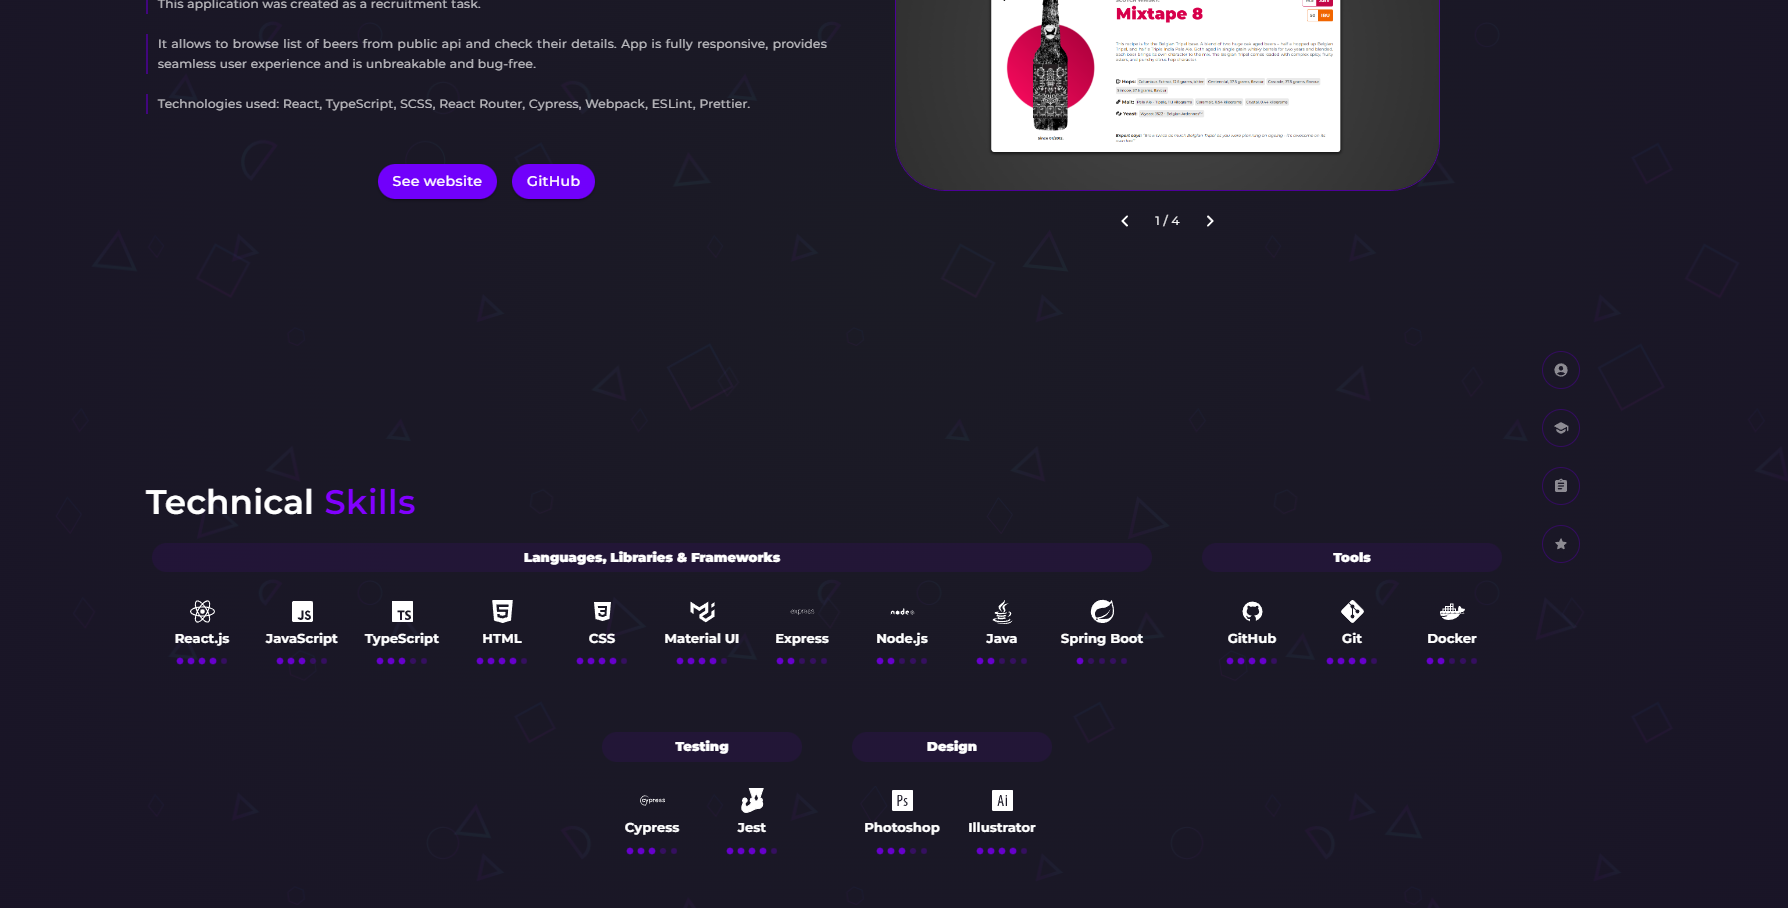
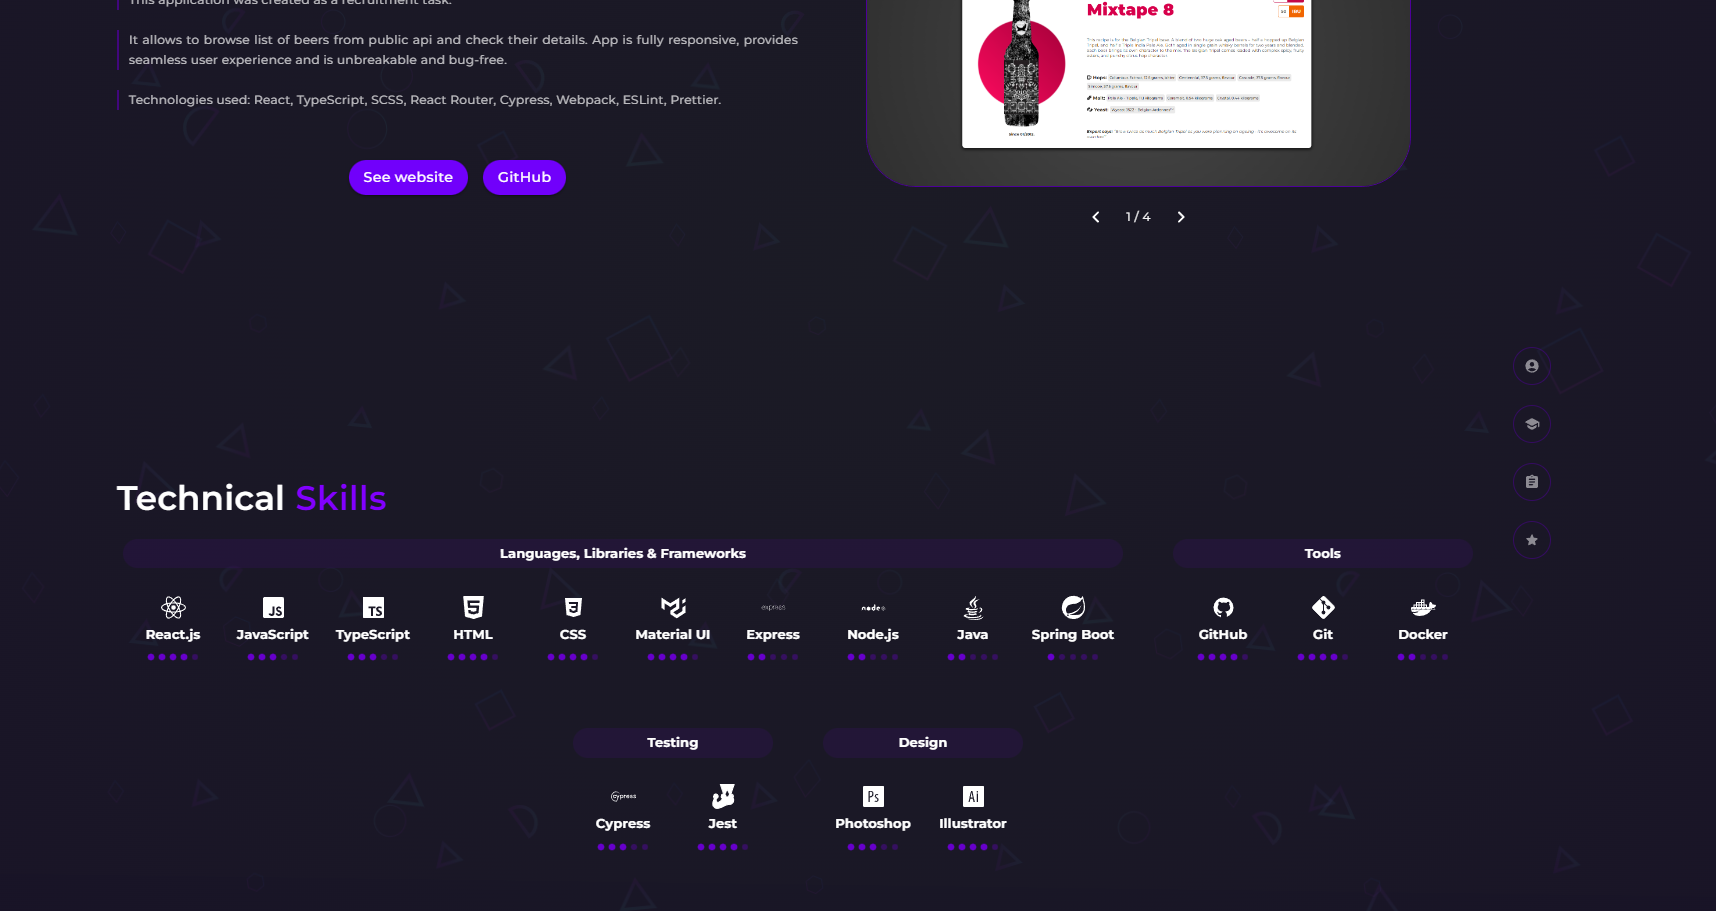
P-39: Replaced SlideInWrapper with useSlideIn hook

diff --git a/src/pages/landing-page/LandingPage.tsx b/src/pages/landing-page/LandingPage.tsx
@@ -9,7 +9,6 @@ import {
 } from '@mui/icons-material';
 import { useAppearance } from '../../shared/hooks/useAppearance';
 import ParallaxBackground from '../../components/animated/parallax-background/ParallaxBackground';
-import SlideInWrapper from '../../components/animated/slide-in/SlideInWrapper';
 import AboutDeveloper from '../../components/content/about-developer/AboutDeveloper';
 import { ME } from '../../shared/constants/Me';
 import SectionHeader from '../../components/navigation/section-header/SectionHeader';
@@ -21,6 +20,7 @@ import SkillsContainer from '../../components/content/skills/skills-container/Sk
 import { PROJECTS } from '../../shared/constants/Projects';
 import Navbar from '../../components/navigation/navbar/Navbar';
 import { Skills } from '../../shared/constants/Skills';
+import { useSlideInProps } from '../../shared/hooks/useSlideInProps';
 
 const MD_BREAKPOINT = 900;
 
@@ -35,6 +35,12 @@ const LandingPage = () => {
   const isExperienceSectionVisible = useAppearance(experienceRef);
   const isAboutMeSectionVisible = useAppearance(aboutMeRef, '200px');
 
+  const skillsSlideInProps = useSlideInProps(isSkillsSectionVisible, 'RIGHT');
+  const projectsSlideInProps = useSlideInProps(isProjectSectionVisible, 'LEFT');
+  const experienceSlideInProps = useSlideInProps(isExperienceSectionVisible, 'RIGHT');
+  const aboutMeSlideInProps = useSlideInProps(isAboutMeSectionVisible, 'RIGHT');
+  const developerSlideInProps = useSlideInProps(isAboutMeSectionVisible, 'LEFT');
+
   return (
     <Grid
       container
@@ -47,50 +53,42 @@ const LandingPage = () => {
       <Grid item xs={12} md={11}>
         <Grid container spacing={5}>
           <Grid item sm={12} md={5} lg={4}>
-            <SlideInWrapper isIn={isAboutMeSectionVisible} direction="LEFT">
-              <AboutDeveloper {...ME} />
-            </SlideInWrapper>
+            <AboutDeveloper {...ME} sx={developerSlideInProps} />
           </Grid>
 
           <Grid item sm={12} md={7} lg={8}>
             <SectionHeader headerText="Hi, I am Hubert!" reference={aboutMeRef} disableTopMargin />
-            <SlideInWrapper isIn={isAboutMeSectionVisible}>
-              <Description
-                sx={{
-                  width: window.innerWidth > MD_BREAKPOINT ? '80%' : '100%',
-                  marginBottom: '50px'
-                }}
-                description={[ME.about]}
-              />
-            </SlideInWrapper>
+            <Description
+              sx={{
+                width: window.innerWidth > MD_BREAKPOINT ? '80%' : '100%',
+                marginBottom: '50px',
+                ...aboutMeSlideInProps
+              }}
+              description={[ME.about]}
+            />
 
             <SectionHeader
               headerText="Education & Experience"
               reference={experienceRef}
               disableTopMargin={window.innerWidth > MD_BREAKPOINT}
             />
-            <SlideInWrapper isIn={isExperienceSectionVisible} direction="RIGHT">
-              <ExperienceList experience={EXPERIENCE} />
-            </SlideInWrapper>
+            <ExperienceList experience={EXPERIENCE} sx={experienceSlideInProps} />
           </Grid>
 
           <Grid item xs={12}>
             <SectionHeader headerText="Featured Projects" reference={projectsRef} />
-            <SlideInWrapper isIn={isProjectSectionVisible} direction="LEFT">
-              <ProjectsList projects={PROJECTS} />
-            </SlideInWrapper>
+            <ProjectsList projects={PROJECTS} sx={projectsSlideInProps} />
           </Grid>
 
           <Grid item xs={12}>
             <SectionHeader headerText="Technical Skills" reference={skillsRef} />
-            <SlideInWrapper isIn={isSkillsSectionVisible} direction="RIGHT">
-              <SkillsContainer
-                programming={Skills.PROGRAMMING_SKILLS}
-                design={Skills.DESIGN_SKILLS}
-                tools={Skills.TOOLS_SKILLS}
-                testing={Skills.TESTING_SKILLS}
-              />
-            </SlideInWrapper>
+            <SkillsContainer
+              programming={Skills.PROGRAMMING_SKILLS}
+              design={Skills.DESIGN_SKILLS}
+              tools={Skills.TOOLS_SKILLS}
+              testing={Skills.TESTING_SKILLS}
+              sx={skillsSlideInProps}
+            />
           </Grid>
         </Grid>
       </Grid>

diff --git a/src/components/content/skills/skills-container/SkillsContainer.tsx b/src/components/content/skills/skills-container/SkillsContainer.tsx
@@ -1,4 +1,4 @@
-import { Box, Typography } from '@mui/material';
+import { Box, SxProps, Typography } from '@mui/material';
 import SkillBadge from '../skill-badge/SkillBadge';
 import './SkillsContainer.scss';
 import { Skill } from 'shared/types/interfaces/Skill';
@@ -9,12 +9,20 @@ interface SkillsContainerProps {
   design: Skill[];
   testing: Skill[];
   wide?: boolean;
+  sx?: SxProps;
 }
 
-const SkillsContainer = ({ programming, tools, design, testing, wide }: SkillsContainerProps) => {
+const SkillsContainer = ({
+  programming,
+  tools,
+  design,
+  testing,
+  wide,
+  sx
+}: SkillsContainerProps) => {
   const buildListOfSkills = (skills: Skill[], header: string) => {
     return (
-      <Box className="skills-category-container">
+      <Box className="skills-category-container" sx={sx}>
         <Typography className="skills-category-header">{header}</Typography>
         <Box className="skills-category-list">
           {skills.map((skill, index) => (

diff --git a/src/components/content/about-developer/AboutDeveloper.tsx b/src/components/content/about-developer/AboutDeveloper.tsx
@@ -1,10 +1,14 @@
-import { Box, Typography } from '@mui/material';
+import { Box, SxProps, Typography } from '@mui/material';
 import './AboutDeveloper.scss';
 import { Developer } from 'shared/types/interfaces/Developer';
 
-const AboutDeveloper = ({ name, role, picture, contacts }: Developer) => {
+interface AboutDeveloperProps extends Developer {
+  sx?: SxProps;
+}
+
+const AboutDeveloper = ({ name, role, picture, contacts, sx }: AboutDeveloperProps) => {
   return (
-    <Box className="about-developer-container">
+    <Box className="about-developer-container" sx={sx}>
       <Box className="developer">
         <img className="picture" src={picture} alt="Picture of this website creator" />
         <Box className="text-container">

diff --git a/src/shared/hooks/useSlideInProps.ts b/src/shared/hooks/useSlideInProps.ts
@@ -1,0 +1,13 @@
+import { SxProps } from '@mui/material';
+
+type SlideDirection = 'LEFT' | 'RIGHT';
+
+export const useSlideInProps = (shouldSlideIn: boolean, direction?: SlideDirection): SxProps => {
+  const slideValue = direction === 'LEFT' ? '-50%' : '50%';
+  return {
+    transform: `translateX(${shouldSlideIn ? 0 : slideValue}) scale(${shouldSlideIn ? 1 : 0.7})`,
+    opacity: shouldSlideIn ? 1 : 0,
+    transition:
+      'transform 0.8s 0.2s cubic-bezier(0.015, 0.620, 0.250, 1.000), opacity 0.8s 0.2s ease-in-out'
+  };
+};

diff --git a/src/components/content/skills/skills-container/SkillsContainer.scss b/src/components/content/skills/skills-container/SkillsContainer.scss
@@ -25,7 +25,7 @@
       border-radius: 50px;
       box-sizing: border-box;
       width: 100%;
-      font-weight: 750;
+      font-weight: 650;
       font-size: $s-font;
       background-color: rgba($purple, 0.1);
       transition: background-color 0.3s;

diff --git a/src/components/content/experience/experience-list/experience-info/ExperienceInfo.scss b/src/components/content/experience/experience-list/experience-info/ExperienceInfo.scss
@@ -19,7 +19,7 @@
     gap: $spacing-l;
 
     .date {
-      font-weight: 750;
+      font-weight: 650;
       height: fit-content;
       transition: 0.5s;
       width: fit-content;

diff --git a/src/components/content/about-developer/AboutDeveloper.scss b/src/components/content/about-developer/AboutDeveloper.scss
@@ -3,7 +3,7 @@
 
 
 .about-developer-container {
-  margin: auto;
+  height: 100%;
   display: flex;
   flex-direction: column;
   align-items: center;

diff --git a/README.md b/README.md
@@ -15,7 +15,7 @@ My personal portfolio created in React + TypeScript with Mobile First approach i
 Just run `npm install` and then `npm run`. Your app should be available at `localhost:3000`.
 
 ## Other commands
-`npm run test-coverage` - runs unit tests and displays code coverage.
+`npm run cypress:component`- runs unit tests.
 
 ## Gallery
 
